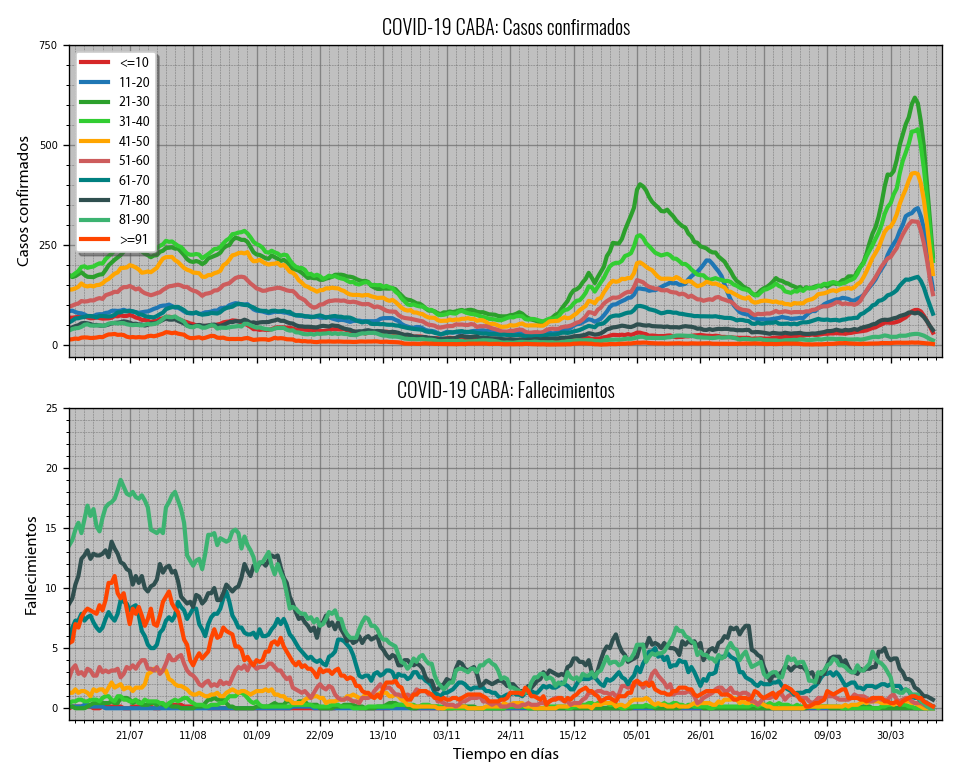
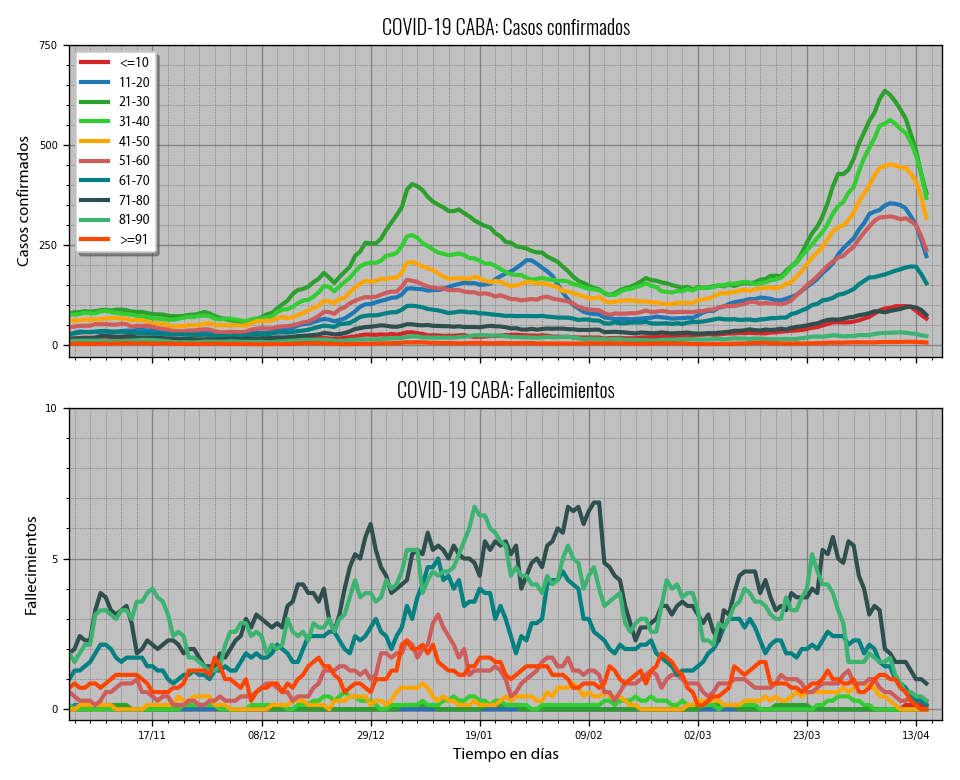
Updating charts...

Changed region(s): [[0.0625, 0.5231, 1.0, 0.9538], [0.0625, 0.0615, 1.0, 0.4615]]

diff --git a/p_analysis.py b/p_analysis.py
@@ -165,8 +165,8 @@ texts_dict_en = {"deathratebysex": ["COVID-19 CABA: Death rate evolution", "Time
 				"Male", "Female", "Total"],
 				"deathratebyage": ["COVID-19 CABA: Death rate evolution", "Time in days", "Death rate",
 				"Male", "Female", "Total"],
-				"estimationcum": ["COVID-19 CABA: Real cases estimation (14d, 0.005IFR)", "Time in days", "Estimated cases"],
-				"estimationavg": ["COVID-19 CABA: Real cases estimation (7 days) (14d, 0.005IFR)", "Time in days", "Estimated cases"],
+				"estimationcum": ["COVID-19 CABA: Real cases estimation (12d, 0.01IFR)", "Time in days", "Estimated cases"],
+				"estimationavg": ["COVID-19 CABA: Real cases estimation (7 days) (12d, 0.01IFR)", "Time in days", "Estimated cases"],
 				"knownratio": ["COVID-19 CABA: Estimated known ratio (14d, 0.005IFR)", "Time in days", "Known ratio"],
 				"c_ageratios": ["COVID-19 CABA: Confirmed cases proportions by age", "Time in days", "% confirmed cases"],
 				"d_ageratios": ["COVID-19 CABA: Deaths proportions by age", "Time in days", "% deaths"],
@@ -179,8 +179,8 @@ texts_dict_es = {"deathratebysex": ["COVID-19 CABA: Tasa de letalidad", "Tiempo 
 				"Hombres", "Mujeres", "Total"],
 				"deathratebyage": ["COVID-19 CABA: Tasa de letalidad", "Tiempo en días", "Tasa de letalidad",
 				"Hombres", "Mujeres", "Total"],
-				"estimationcum": ["COVID-19 CABA: Estimación de casos reales (14d, 0.005IFR)", "Tiempo en días", "Casos estimados"],
-				"estimationavg": ["COVID-19 CABA: Estimación de casos reales (7 días) (14d, 0.005IFR)", "Tiempo en días", "Casos estimados"],
+				"estimationcum": ["COVID-19 CABA: Estimación de casos reales (12d, 0.01IFR)", "Tiempo en días", "Casos estimados"],
+				"estimationavg": ["COVID-19 CABA: Estimación de casos reales (7 días) (12d, 0.01IFR)", "Tiempo en días", "Casos estimados"],
 				"knownratio": ["COVID-19 CABA: Proporción estimada de casos conocidos", "Tiempo en días", "Proporción conocida"],
 				"c_ageratios": ["COVID-19 CABA: Proporciones de casos por edad", "Tiempo en días", "% casos confirmados"],
 				"d_ageratios": ["COVID-19 CABA: Proporciones de fallecidos por edad", "Tiempo en días", "% fallecidos"],

diff --git a/p_vaccinations.py b/p_vaccinations.py
@@ -3,10 +3,10 @@ import pandas as pd
 from matplotlib.pyplot import figure
 import matplotlib.pyplot as plt
 
-cum_age_sex = pd.read_csv("processed/cum_vaccinationbyageandsex.csv")
+cum_age_sex = pd.read_csv("processed/vaccinationbyageandsex_cum.csv")
 cum_age_sex["FECHA"] = pd.to_datetime(cum_age_sex["FECHA"], format="%Y-%m-%d")
 cum_age_sex.set_index("FECHA", inplace=True)
-cum_age_dose = pd.read_csv("processed/cum_vaccinationbyageanddose.csv")
+cum_age_dose = pd.read_csv("processed/vaccinationbyageanddose_cum.csv")
 cum_age_dose["FECHA"] = pd.to_datetime(cum_age_dose["FECHA"], format="%Y-%m-%d")
 cum_age_dose.set_index("FECHA", inplace=True)
 age_dose = pd.read_csv("processed/vaccinationbyageanddose.csv")
@@ -18,10 +18,10 @@ age_dose_avg.set_index("FECHA", inplace=True)
 vac_dose_avg = pd.read_csv("processed/vaccinationbyvaccineavg.csv")
 vac_dose_avg["FECHA"] = pd.to_datetime(vac_dose_avg["FECHA"], format="%Y-%m-%d")
 vac_dose_avg.set_index("FECHA", inplace=True)
-reached_s = pd.read_csv("processed/reached_vaccinationbyageandsex.csv")
+reached_s = pd.read_csv("processed/vaccinationbyageandsex_reached.csv")
 reached_s["FECHA"] = pd.to_datetime(reached_s["FECHA"], format="%Y-%m-%d")
 reached_s.set_index("FECHA", inplace=True)
-reached_d = pd.read_csv("processed/reached_vaccinationbyageanddose.csv")
+reached_d = pd.read_csv("processed/vaccinationbyageanddose_reached.csv")
 reached_d["FECHA"] = pd.to_datetime(reached_d["FECHA"], format="%Y-%m-%d")
 reached_d.set_index("FECHA", inplace=True)
 

diff --git a/chart_config.py b/chart_config.py
@@ -25,13 +25,13 @@ image_resolution = 120
 language = 1 #0 = english, 1 = spanish
 legend_text_size = 8
 plot_scale = "linear"
-start_date = "2020-07-01"
+start_date = "2020-11-01"
 week_interval = 3
 v_start_date = "2021-01-01"
 v_week_interval = 2
 e_start_date = "2020-03-15"
 e_week_interval = 6
-end_date = "2021-04-16"
+end_date = "2021-04-18"
 
 if language == 1:
 	date_format = mdates.DateFormatter("%d/%m")
@@ -122,5 +122,5 @@ def build_legend():
 def build_legends(axis_a, axis_b):
 	a, al = axis_a.get_legend_handles_labels()
 	b, bl = axis_b.get_legend_handles_labels()
-	axis_b.legend(a + b, al + bl, loc=0, shadow = True, facecolor = background_figure,
+	axis_b.legend(a + b, al + bl, loc=2, shadow = True, facecolor = background_figure,
 				prop={'family' : legend_font, 'size' : legend_text_size})
